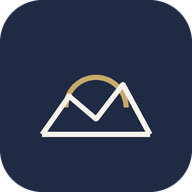
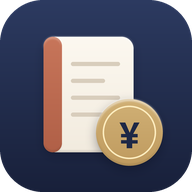
アイコンを家計簿のノート＋金の ¥ コインに（本人が4案から選んだ）。iPhone 用は四角のまま、maskable は余白つき

diff --git a/web/sw.js b/web/sw.js
@@ -3,12 +3,12 @@
 // 画面のファイルを直したら VERSION を上げる（古い保存を消して、新しいものを取り直すため）。
 // 取り直すときは、ブラウザの一時保存（GitHub Pages は10分使ってよいと返す）を通さずに取る。通すと、上げたあと10分ほど古いファイルが入ることがある。
 
-const VERSION = 'kakeibo-v34';
+const VERSION = 'kakeibo-v35';
 const SHELL = [
   './', 'index.html', 'style.css', 'manifest.webmanifest',
   'js/app.js', 'js/api.js', 'js/calc.js', 'js/csv.js', 'js/theme.js', 'js/days.js', 'js/icons.js', 'js/ui.js',
   'js/views/home.js', 'js/views/stats.js', 'js/views/budget.js', 'js/views/assets.js', 'js/views/income.js', 'js/views/fixed.js', 'js/views/csvimport.js', 'js/views/sheets.js', 'js/views/pages.js',
-  'images/icon-192.png', 'images/apple-touch-icon.png',
+  'images/icon-192.png?v=2', 'images/apple-touch-icon.png?v=2',
 ];
 
 self.addEventListener('install', e => {

diff --git a/web/index.html b/web/index.html
@@ -12,8 +12,9 @@
 <meta name="apple-mobile-web-app-title" content="家計簿">
 <title>家計簿</title>
 <link rel="manifest" href="manifest.webmanifest">
-<link rel="icon" href="images/icon-192.png">
-<link rel="apple-touch-icon" href="images/apple-touch-icon.png">
+<link rel="icon" href="images/icon-192.png?v=2">
+<!-- アイコン（10/7 新しくした：家計簿のノート＋金のコイン）。?v= は古いアイコンを取り直させるため -->
+<link rel="apple-touch-icon" href="images/apple-touch-icon.png?v=2">
 <link rel="preconnect" href="https://fonts.googleapis.com">
 <link rel="preconnect" href="https://fonts.gstatic.com" crossorigin>
 <link rel="stylesheet" href="https://fonts.googleapis.com/css2?family=Shippori+Mincho:wght@500;600&family=Cormorant+Garamond:wght@500;600&family=Zen+Kaku+Gothic+New:wght@300;400;500;700&family=Jost:wght@300;400;500&family=Zen+Old+Mincho:wght@500;600&family=Bodoni+Moda:opsz,wght@6..96,500&display=swap">
